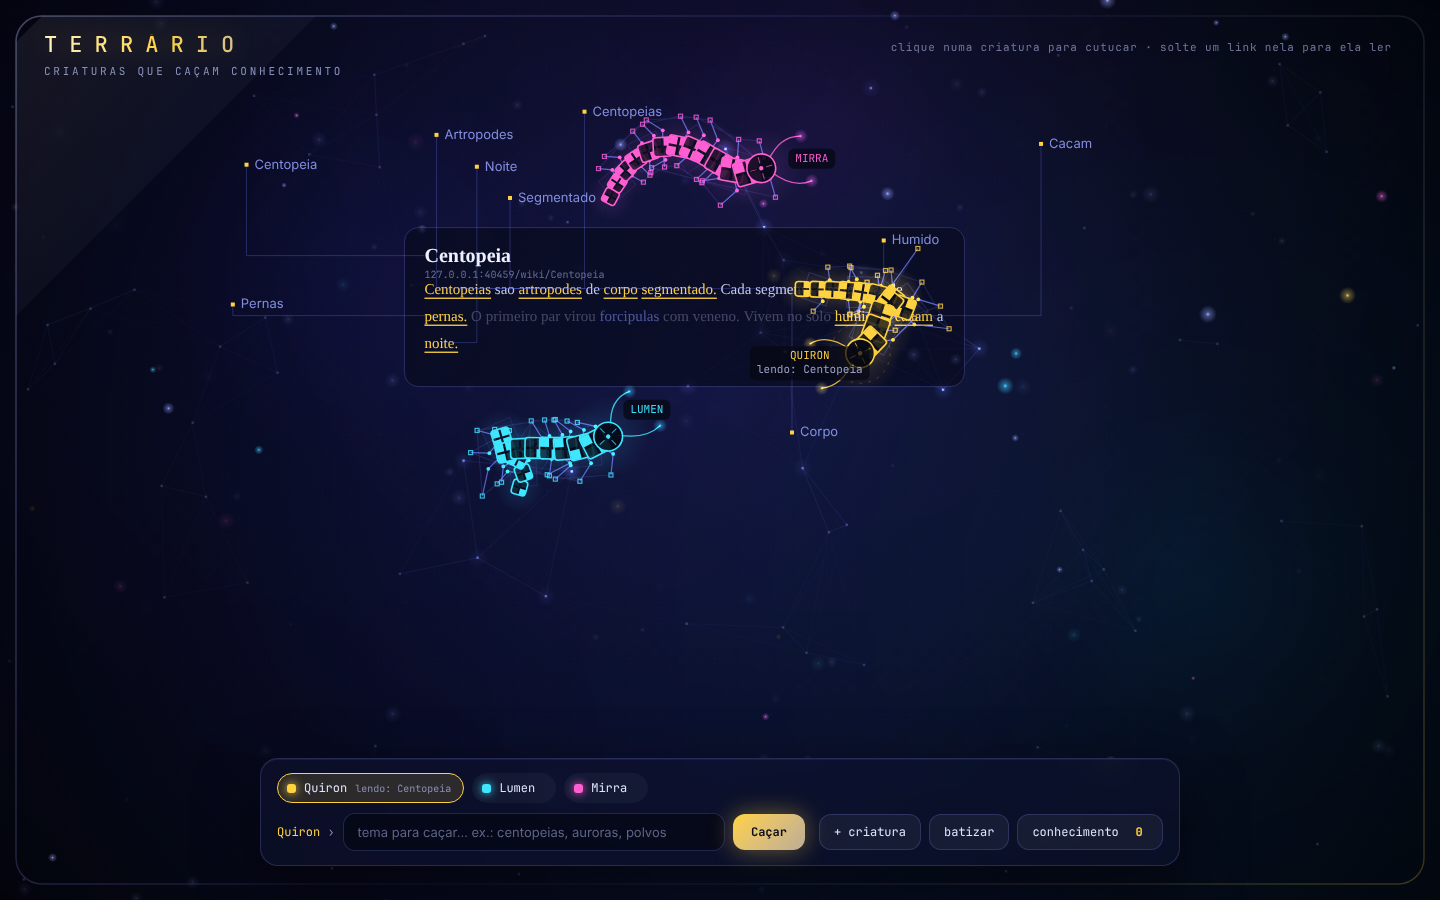
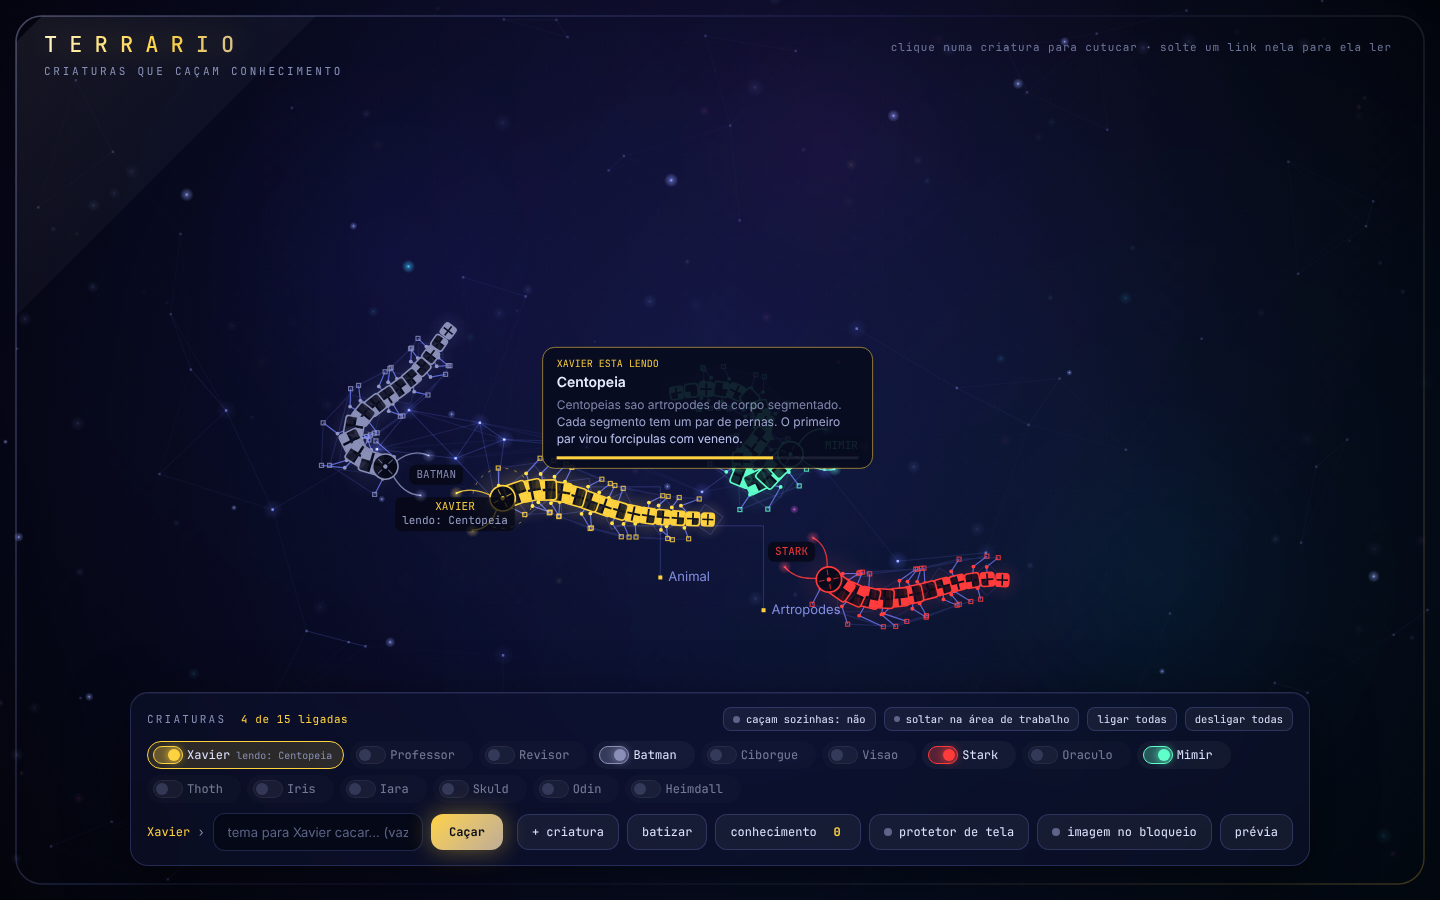
Area de trabalho sem duplicar, cartao de leitura no hover e busca na web livre (0.3.1)
Claude-Session: https://claude.ai/code/session_018FvbV7X93Smgq5fALKEvps

diff --git a/public/terrario.js b/public/terrario.js
@@ -121,87 +121,8 @@ function desenhaVidro() {
 
 
 // ---------------------------------------------------------------- leitura
-// Folha: a pagina que a criatura percorre palavra por palavra.
-class Folha {
-  constructor({ titulo, texto, url }, termos, criatura) {
-    this.titulo = titulo; this.url = url; this.criatura = criatura;
-    this.alfa = 0; this.saindo = false;
-    const larg = Math.min(560, W * 0.62);
-    this.x = Math.max(60, (W - larg) / 2 + rand(-80, 80));
-    this.y = Math.max(110, H * 0.22 + rand(-30, 30));
-    this.w = larg;
-    ctx.font = '15px Georgia, "Times New Roman", serif';
-    const palavras = texto.split(/\s+/).filter(Boolean);
-    const linhas = [[]];
-    let largura = 0;
-    const espaco = ctx.measureText(' ').width;
-    for (const p of palavras) {
-      const lw = ctx.measureText(p).width;
-      if (largura + lw > larg - 40 && linhas.at(-1).length) {
-        if (linhas.length === 7) break;
-        linhas.push([]); largura = 0;
-      }
-      linhas.at(-1).push({ p, lw, x: 20 + largura });
-      largura += lw + espaco;
-    }
-    const tset = new Set(termos.map(t => t.toLowerCase()));
-    this.palavras = [];
-    linhas.forEach((l, li) => l.forEach(w => this.palavras.push({
-      ...w, y: 66 + li * 27, lida: 0, termo: tset.has(w.p.toLowerCase().replace(/[^\p{L}-]/gu, '')) })));
-    this.h = 66 + linhas.length * 27 + 12;
-    // caminho em zigue-zague sobre as linhas
-    this.rota = [];
-    linhas.forEach((l, li) => {
-      const ws = this.palavras.filter(w => w.y === 66 + li * 27);
-      (li % 2 ? [...ws].reverse() : ws).forEach(w =>
-        this.rota.push({ x: this.x + w.x + w.lw / 2, y: this.y + w.y - 5 }));
-    });
-  }
-
-  atualizar(dt) {
-    this.alfa = this.saindo ? Math.max(0, this.alfa - dt * 1.2) : Math.min(1, this.alfa + dt * 2);
-    const c = this.criatura.cabeca;
-    for (const w of this.palavras) {
-      if (w.lida) { w.lida = Math.min(1, w.lida + dt * 3); continue; }
-      const px = this.x + w.x, py = this.y + w.y;
-      if (c.x > px - 8 && c.x < px + w.lw + 8 && Math.abs(c.y - (py - 5)) < 16) {
-        w.lida = 0.01;
-        if (w.termo) rotulos.push(new Rotulo(w.p.replace(/[^\p{L}-]/gu, ''), px + w.lw / 2, py - 5, this.criatura.cor, this));
-      }
-    }
-  }
-
-  desenhar() {
-    if (!this.alfa) return;
-    const { x, y, w, h } = this;
-    ctx.save();
-    ctx.globalAlpha = this.alfa;
-    ctx.fillStyle = 'rgba(8,11,30,0.72)';
-    ctx.strokeStyle = 'rgba(130,145,255,0.25)';
-    ctx.lineWidth = 1;
-    ctx.beginPath(); ctx.roundRect(x, y, w, h, 14); ctx.fill(); ctx.stroke();
-    ctx.font = '600 20px Georgia, serif';
-    ctx.fillStyle = '#eef0ff';
-    ctx.fillText(this.titulo.slice(0, 48), x + 20, y + 34);
-    ctx.font = '10px "JetBrains Mono", Consolas, monospace';
-    ctx.fillStyle = 'rgba(140,150,200,0.7)';
-    ctx.fillText((this.url ?? '').replace(/^https?:\/\//, '').slice(0, 70), x + 20, y + 50);
-    ctx.font = '15px Georgia, "Times New Roman", serif';
-    const cor = this.criatura.cor;
-    for (const p of this.palavras) {
-      const px = x + p.x, py = y + p.y;
-      if (p.termo) {
-        ctx.fillStyle = p.lida ? rgba(cor, 0.4 + p.lida * 0.6) : 'rgba(130,145,255,0.55)';
-        if (p.lida) { ctx.fillRect(px, py + 4, p.lw * p.lida, 1.3); }
-      } else {
-        ctx.fillStyle = `rgba(215,222,255,${0.28 + p.lida * 0.62})`;
-      }
-      ctx.fillText(p.p, px, py);
-    }
-    ctx.restore();
-  }
-}
-
+// A criatura le andando, sem folha na tela; passar o mouse mostra o cartao
+// do que ela esta lendo (desenhaCartao).
 // Rotulo: termo descoberto que sai flutuando, como num cladograma.
 class Rotulo {
   constructor(texto, x, y, cor, folha) {
@@ -260,10 +181,52 @@ class Orbe {
 
 // ---------------------------------------------------------------- estado
 let criaturas = [];
-let folhas = [], rotulos = [], ondas = [], orbes = [];
+let rotulos = [], ondas = [], orbes = [];
+let naArea = false;
 // o mundo que as criaturas enxergam
 Criatura.padrao = { ctx, mouse, get W() { return W; }, get H() { return H; }, get tempo() { return tempo; },
-  get folhas() { return folhas; }, get ondas() { return ondas; } };
+  get ondas() { return ondas; } };
+
+// cartao do que a criatura esta lendo: aparece com o mouse em cima dela
+function desenhaCartao(c) {
+  const { titulo, palavras, inicio, dura } = c.leitura;
+  const prog = Math.min(1, (tempo - inicio) / dura);
+  const ate = Math.floor(prog * palavras.length);
+  const trecho = palavras.slice(Math.max(0, ate - 26), ate);
+  const w = 330, x = Math.min(W - w - 20, Math.max(20, c.cabeca.x + 40));
+  ctx.font = '12px "Inter", "Segoe UI", sans-serif';
+  // quebra o trecho em ate 4 linhas
+  const linhas = [];
+  let linha = '';
+  for (const p of trecho) {
+    if (ctx.measureText(`${linha} ${p}`).width > w - 28) { linhas.push(linha); linha = p; } else linha = linha ? `${linha} ${p}` : p;
+  }
+  if (linha) linhas.push(linha);
+  const vis = linhas.slice(-4), h = 70 + vis.length * 17;
+  const y = Math.min(H - h - 20, Math.max(20, c.cabeca.y - h - 30));
+  ctx.fillStyle = 'rgba(8,11,30,0.9)';
+  ctx.strokeStyle = rgba(c.cor, 0.55);
+  ctx.lineWidth = 1;
+  ctx.beginPath(); ctx.roundRect(x, y, w, h, 12); ctx.fill(); ctx.stroke();
+  ctx.fillStyle = rgba(c.cor, 0.95);
+  ctx.font = '10px "JetBrains Mono", Consolas, monospace';
+  ctx.fillText(`${c.nome.toUpperCase()} ESTA LENDO`, x + 14, y + 20);
+  ctx.fillStyle = '#e8ecff';
+  ctx.font = '600 14px "Inter", "Segoe UI", sans-serif';
+  ctx.fillText(titulo.length > 38 ? titulo.slice(0, 37) + '…' : titulo, x + 14, y + 40);
+  ctx.font = '12px "Inter", "Segoe UI", sans-serif';
+  vis.forEach((l, i) => { ctx.fillStyle = `rgba(200,208,255,${0.45 + 0.5 * (i + 1) / vis.length})`; ctx.fillText(l, x + 14, y + 62 + i * 17); });
+  ctx.fillStyle = 'rgba(255,255,255,0.08)'; ctx.fillRect(x + 14, y + h - 12, w - 28, 3);
+  ctx.fillStyle = c.cor; ctx.fillRect(x + 14, y + h - 12, (w - 28) * prog, 3);
+}
+
+function desenhaFora() {
+  ctx.font = '12px "JetBrains Mono", Consolas, monospace';
+  ctx.textAlign = 'center';
+  ctx.fillStyle = 'rgba(200,208,255,0.55)';
+  ctx.fillText('as criaturas ligadas estao passeando na sua area de trabalho', W / 2, H * 0.42);
+  ctx.textAlign = 'left';
+}
 let escolhida = null;
 
 const lista = document.getElementById('lista');
@@ -434,19 +397,26 @@ async function cacar(c, pedido) {
   }
   // fareja pelo menos um pouquinho, para dar tempo de ver
   await new Promise(r => setTimeout(r, Math.max(0, 1600 - (performance.now() - inicio))));
+  const soltos = [...(achado.termos ?? [])];
   for (const pagina of c.cancelada ? [] : achado.paginas.slice(0, 3)) {
     c.estado = 'lendo';
     c.legenda = `lendo: ${pagina.titulo.slice(0, 28)}`;
     desenhaLista();
-    const f = new Folha(pagina, achado.termos, c);
-    folhas.push(f);
-    rotulos.push(new Rotulo(pagina.titulo, f.x + 20, f.y + 28, c.cor, f));
-    c.rota = [{ x: f.x - 10, y: f.y + 60 }, ...f.rota];
-    await esperar(() => !c.rota.length);
-    f.saindo = true;
+    // le umas 9 palavras por segundo, entre 6 e 12 s por pagina
+    const palavras = pagina.texto.split(/\s+/).filter(Boolean);
+    const dura = Math.min(12, Math.max(6, palavras.length / 9));
+    c.leitura = { titulo: pagina.titulo, url: pagina.url, palavras, inicio: tempo, dura };
+    const fim = tempo + dura;
+    let proximo = tempo + 1.2;
+    await esperar(() => {
+      // de tempos em tempos um termo sai da cabeca
+      if (tempo > proximo && soltos.length) { rotulos.push(new Rotulo(soltos.shift(), c.cabeca.x, c.cabeca.y, c.cor)); proximo = tempo + 2.2; }
+      return tempo >= fim || c.cancelada;
+    });
     if (c.cancelada) break;
   }
-  if (c.cancelada) { c.cancelada = false; c.estado = 'vagando'; c.legenda = ''; return; }
+  c.leitura = null;
+  if (c.cancelada) { c.cancelada = false; c.leitura = null; c.estado = 'vagando'; c.legenda = ''; return; }
   c.estado = 'digerindo';
   c.legenda = 'digerindo…';
   desenhaLista();
@@ -486,7 +456,7 @@ export function escolherTema(c, sorte = Math.random) {
 
 function cacasSozinhas() {
   if (!sozinhas) return;
-  // uma leitura por vez na tela, para as folhas nao se amontoarem
+  // uma caca por vez, para o terrario nao virar bagunca
   const ocupada = criaturas.some(c => c.estado !== 'vagando');
   for (const c of criaturas) {
     if (c.estado !== 'vagando' || tempo < c.proxima) continue;
@@ -602,6 +572,7 @@ const CHAVES = {
     sim: () => 'Imagem no bloqueio ligada: uma nova a cada Win+L.', nao: () => 'Imagem no bloqueio desligada.' },
 };
 function mostraEstado(e) {
+  naArea = !!e.area;
   for (const [nome, k] of Object.entries(CHAVES)) k.botao.setAttribute('aria-checked', String(!!e[nome]));
 }
 for (const [nome, k] of Object.entries(CHAVES)) k.botao.addEventListener('click', async () => {
@@ -648,8 +619,6 @@ function quadro(agora) {
   const dt = Math.min(0.05, (agora - antes) / 1000);
   antes = agora; tempo += dt;
   desenhaFundo(dt);
-  for (const f of folhas) { f.atualizar(dt); f.desenhar(); }
-  folhas = folhas.filter(f => !(f.saindo && f.alfa === 0));
   for (const r of rotulos) { r.atualizar(dt); r.desenhar(); }
   rotulos = rotulos.filter(r => r.vida > 0).slice(-80);
   for (const o of ondas) {
@@ -659,7 +628,13 @@ function quadro(agora) {
     ctx.beginPath(); ctx.arc(o.x, o.y, o.r, 0, 6.28); ctx.stroke();
   }
   ondas = ondas.filter(o => o.vida > 0);
-  for (const c of criaturas) { c.atualizar(dt); c.desenhar(c === escolhida); }
+  // na area de trabalho elas passeiam fora; aqui fica so o aviso (sem duplicar)
+  if (naArea) desenhaFora();
+  else {
+    for (const c of criaturas) { c.atualizar(dt); c.desenhar(c === escolhida); }
+    const sob = maisPerto(mouse, 70);
+    if (sob?.leitura) desenhaCartao(sob);
+  }
   for (const o of orbes) { o.atualizar(dt); o.desenhar(); }
   orbes = orbes.filter(o => o.fim);
   desenhaVidro();

diff --git a/public/criatura.js b/public/criatura.js
@@ -77,7 +77,7 @@ export class Criatura {
   }
 
   atualizar(dt) {
-    const { W, H, tempo, mouse, folhas, fugir } = this.mundo;
+    const { W, H, tempo, mouse, folhas = [], fugir } = this.mundo;
     const c = this.cabeca;
     this.susto = Math.max(0, this.susto - dt * 0.9);
     let velAlvo = 42 * this.ritmo, giro = 2.2, alvoAng = this.ang;

diff --git a/CHANGELOG.md b/CHANGELOG.md
@@ -1,5 +1,11 @@
 # Changelog
 
+## 0.3.1 (2026-10-30)
+
+- Área de trabalho: as criaturas ligadas saem do terrário (não aparecem mais duplicadas dentro e fora); o terrário mostra um aviso. A janela transparente aparece ao carregar a página (antes dependia do `ready-to-show`, que pode não vir no Windows) e fica no nível mais alto.
+- Leitura sem folha na tela: a criatura lê andando e solta os termos; passar o mouse em cima dela mostra um cartão com o título, o trecho que está lendo e o progresso.
+- Busca na web livre (DuckDuckGo HTML, sem chave) junto com a Wikipedia: até 2 páginas da web + Wikipedia por caçada; se uma fonte falhar, vale a outra. `TERRARIO_BUSCA` troca o buscador.
+
 ## 0.3.0 (2026-10-30)
 
 - **Área de trabalho**: as criaturas ligadas saem do terrário e andam pela tela toda, numa janela transparente, sempre no topo, que não pega foco e deixa o clique passar. Fogem do mouse para não atrapalhar. Chave no app (*soltar na área de trabalho*) e na bandeja; cada criatura continua com a sua chave. Para de desenhar com o PC bloqueado.
